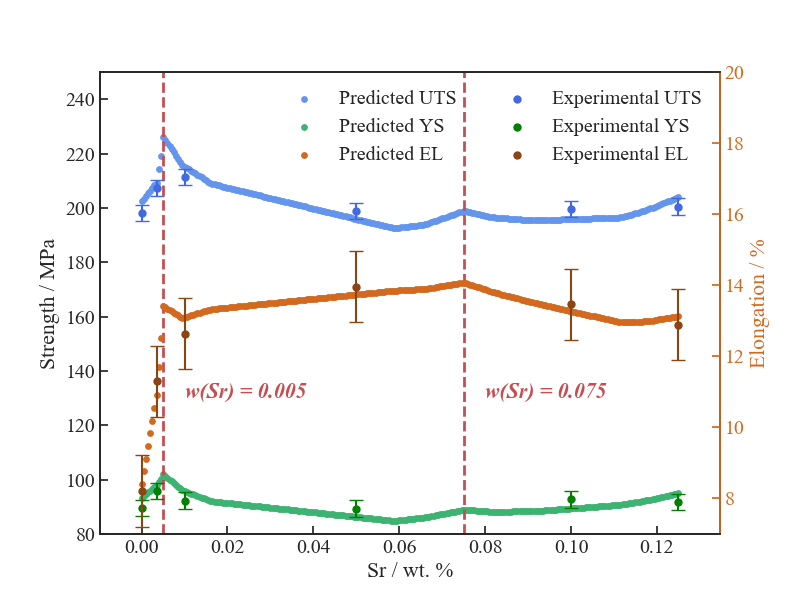
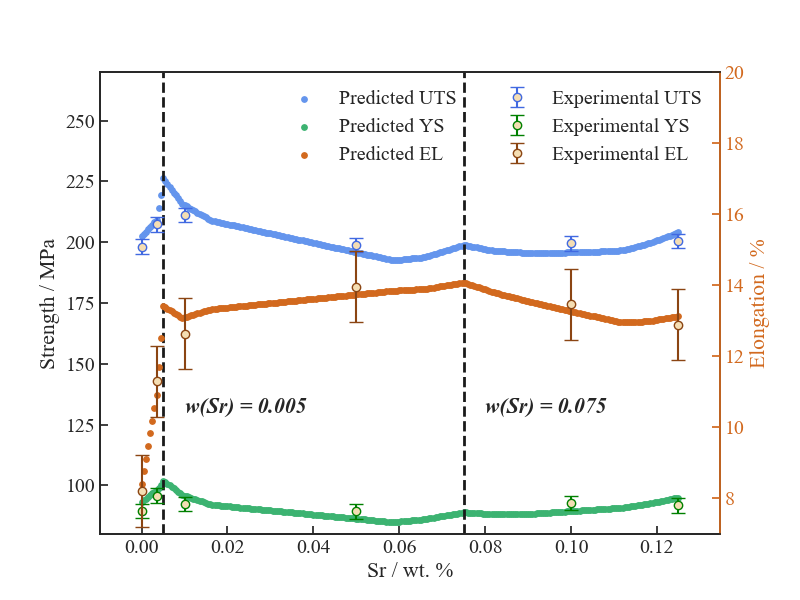
update

diff --git a/Projects/Experiment/Experiment_Al-Si-Mg-Sr_v1.0/Model_process.py b/Projects/Experiment/Experiment_Al-Si-Mg-Sr_v1.0/Model_process.py
@@ -21,6 +21,7 @@ def main(parameters_list):
     train_start_index = parameters_list[4]
     train_end_index = parameters_list[5]
     error = parameters_list[6]
+    add = parameters_list[7]
     if os.path.exists(path):
         pass
     else:
@@ -111,16 +112,17 @@ def main(parameters_list):
 
     # 绘制散点图
 
-    def draw_scatter(x_training, y_training, x_predicting, y_predicting, error):
-        # 7data
-        ymin1 = 85
-        ymax1 = 240
-        ymin2 = 7
-        ymax2 = 18
-        # 6data
+    def draw_scatter(x_training, y_training, x_predicting, y_predicting, error, add):
         ymin1 = 80
-        ymax1 = 250
+        ymax1 = 270
+        ymin2 = 7
         ymax2 = 20
+
+
+        if add:
+            y_index = -1
+        else:
+            y_index = train_end_index
 
         sns.set(font="Times New Roman", font_scale=1.3, style='ticks')
         matplotlib.rcParams['xtick.direction'] = 'in'
@@ -140,30 +142,28 @@ def main(parameters_list):
         # UTS
         pl11 = ax1.scatter(x_predicting, y_predicting[:, 0],
                            s=15, color='cornflowerblue')
-        ax1.errorbar(x_training, y_training[:, 0], yerr=error[0], linestyle='None',
-                     capsize=5, ecolor='royalblue')
-        pl12 = ax1.scatter(
-            x_training, y_training[:, 0], s=25, color='royalblue')
+        pl12 = ax1.errorbar(x_training[0:y_index], y_training[0:y_index, 0], yerr=error[0],
+                            linestyle='None', capsize=5, ecolor='royalblue',
+                            fmt='o:', mfc='wheat', mec='royalblue')
         # YS
         pl21 = ax1.scatter(x_predicting, y_predicting[:, 1],
                            s=15, color='mediumseagreen')
-        ax1.errorbar(x_training, y_training[:, 1], yerr=error[1], linestyle='None',
-                     capsize=5, ecolor='green')
-        pl22 = ax1.scatter(x_training, y_training[:, 1], s=25, color='green')
+        pl22 = ax1.errorbar(x_training[0:y_index], y_training[0:y_index, 1], yerr=error[1],
+                            linestyle='None', capsize=5, ecolor='green',
+                            fmt='o:', mfc='wheat', mec='green')
         # EL
         pl31 = ax2.scatter(x_predicting, y_predicting[:, 2],
                            s=15, color='chocolate')
-        ax2.errorbar(x_training, y_training[:, 2], yerr=error[2], linestyle='None',
-                     capsize=5, ecolor='saddlebrown')
-        pl32 = ax2.scatter(
-            x_training, y_training[:, 2], s=25, color='saddlebrown')
+        pl32 = ax2.errorbar(x_training[0:y_index], y_training[0:y_index, 2], yerr=error[2],
+                            linestyle='None', capsize=5, ecolor='saddlebrown',
+                            fmt='o:', mfc='wheat', mec='saddlebrown')
 
-        ax1.vlines(0.005, ymin1, ymax1, linestyles='dashed',
-                   color='r', linewidth=2)
-        ax1.vlines(0.075, ymin1, ymax1, linestyles='dashed',
-                   color='r', linewidth=2)
-        ax1.text(0.01, 130, 'w(Sr) = 0.005', color='r', fontdict={'style': 'italic'})
-        ax1.text(0.08, 130, 'w(Sr) = 0.075', color='r', fontdict={'style': 'italic'})
+        ax1.vlines(0.005, ymin1, ymax1,
+                   linestyles='dashed', linewidth=2)
+        ax1.vlines(0.075, ymin1, ymax1,
+                   linestyles='dashed', linewidth=2)
+        ax1.text(0.01, 130, 'w(Sr) = 0.005', fontdict={'style': 'italic'})
+        ax1.text(0.08, 130, 'w(Sr) = 0.075', fontdict={'style': 'italic'})
 
         label11 = 'Predicted UTS'
         label12 = 'Experimental UTS'
@@ -172,9 +172,41 @@ def main(parameters_list):
         label31 = 'Predicted EL'
         label32 = 'Experimental EL'
 
-        plt.legend([pl11, pl21, pl31, pl12, pl22, pl32],
-                   [label11, label21, label31, label12, label22, label32],
-                   loc='upper right', frameon=False, ncol=2)
+        # Additional
+        if add:
+            # UTS
+            x_add1 = np.array([0.005])
+            y_add1 = np.array([y_training[y_index, 0]])
+            e_add1 = np.array([[3],
+                               [3]])
+            pl_add = ax1.errorbar(x_add1, y_add1, yerr=e_add1,
+                                   linestyle='None', capsize=5, ecolor='r',
+                                   fmt='v', mfc='wheat', mec='r', ms=7)
+            # YS
+            x_add2 = np.array([0.005])
+            y_add2 = np.array([y_training[y_index, 1]])
+            e_add2 = np.array([[3],
+                               [3]])
+            ax1.errorbar(x_add2, y_add2, yerr=e_add2,
+                                   linestyle='None', capsize=5, ecolor='r',
+                                   fmt='v', mfc='wheat', mec='r', ms=7)
+            # EL
+            x_add3 = np.array([0.005])
+            y_add3 = np.array([y_training[y_index, 2]])
+            e_add3 = np.array([[1],
+                               [1]])
+            ax2.errorbar(x_add3, y_add3, yerr=e_add3,
+                                   linestyle='None', capsize=5, ecolor='r',
+                                   fmt='v', mfc='wheat', mec='r', ms=7)
+            label_add = 'Additional experimental data'
+
+            l1 = plt.legend([pl11, pl21, pl31, pl_add ,pl12, pl22, pl32],
+                       [label11, label21, label31, label_add, label12, label22,label32],
+                       loc='upper right', frameon=False, ncol=2)
+        else:
+            plt.legend([pl11, pl21, pl31, pl12, pl22, pl32],
+                       [label11, label21, label31, label12, label22, label32],
+                       loc='upper right', frameon=False, ncol=2)
         plt.savefig(path + 'performance.png')
 
         # plt.show()
@@ -234,7 +266,8 @@ def main(parameters_list):
 
         if Al_line:
             ax.vlines(0.595, -6, 2, linestyles='dashed', linewidth=2)
-            ax.text(0.62, -3, 'f (Al) = 0.595', fontdict={'style': 'italic'})
+            ax.text(0.62, -3, r'f (Al) $\approx$ 0.60',
+                    fontdict={'style': 'italic'})
         if Al2Si2Sr_line:
             ax.vlines(6.32E-7, -6, 4, linestyles='dashed', linewidth=2)
             ax.vlines(0.0010669305, -6, 4, linestyles='dashed', linewidth=2)
@@ -455,7 +488,8 @@ def main(parameters_list):
 
             # 数据可视化(散点图)
             draw_scatter(EL_Sr.numpy(), y_list.numpy(),
-                         EL_Sr_predicting.numpy(), y_predicting.numpy(), error)
+                         EL_Sr_predicting.numpy(), y_predicting.numpy(),
+                         error, add)
 
             # 综合力学性能计算及可视化
             # data_process(path, EL_Si_predicting.numpy(), EL_Mg_predicting.numpy())

diff --git a/Projects/Experiment/Experiment_Al-Si-Mg-Sr_v1.0/Model_main.py b/Projects/Experiment/Experiment_Al-Si-Mg-Sr_v1.0/Model_main.py
@@ -147,18 +147,13 @@ def main():
         path = r'Projects\\Experiment\\Experiment_Al-Si-Mg-Sr_v1.0\\res\\Process\\%.3f\\' % index
         model_path = r'Projects\\Experiment\\Experiment_Al-Si-Mg-Sr_v1.0\\res\\Train\\final\\model.pkl'
         train_end_index = 6
+        add = False
         error = np.array([[[3, 3, 3, 3, 3, 3],
                            [3, 3, 3, 3, 3, 3]],
                           [[3, 3, 3, 3, 3, 3],
                            [3, 3, 3, 3, 3, 3]],
                           [[1, 1, 1, 1, 1, 1],
                            [1, 1, 1, 1, 1, 1]]])
-        # error = np.array([[[3, 3, 3, 3, 3, 3, 3],
-        #                    [3, 3, 3, 3, 3, 3, 3]],
-        #                   [[3, 3, 3, 3, 3, 3, 3],
-        #                    [3, 3, 3, 3, 3, 3, 3]],
-        #                   [[1, 1, 1, 1, 1, 1, 1],
-        #                    [1, 1, 1, 1, 1, 1, 1]]])
         # error = np.array([[[3, 3, 3, 3, 3, 3, 3, 3, 3, 3, 3],
         #                    [3, 3, 3, 3, 3, 3, 3, 3, 3, 3, 3]],
         #                   [[3, 3, 3, 3, 3, 3, 3, 3, 3, 3, 3],
@@ -167,7 +162,7 @@ def main():
         #                    [1, 1, 1, 1, 1, 1, 1, 1, 1, 1, 1]]])
         parameters_list = [training_data_file_path, predicting_data_file_path,
                            path, model_path, train_start_index,
-                           train_end_index, error]
+                           train_end_index, error, add]
         Model_process.main(parameters_list)
         print('\n++++++++++++++++Model Process complete++++++++++++++++++')
         print('Progress: the index of file ---> %.3f' % index)
